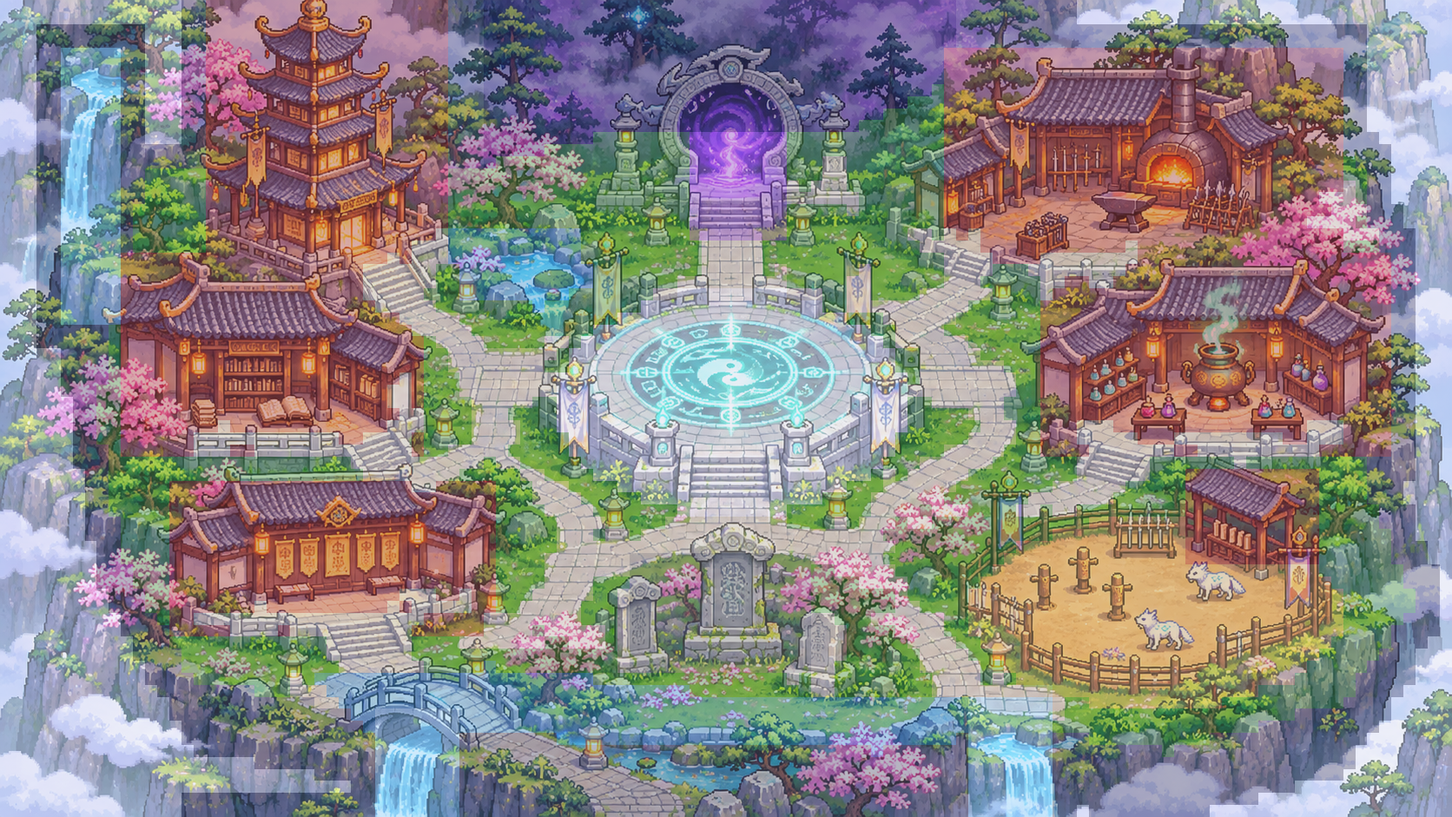
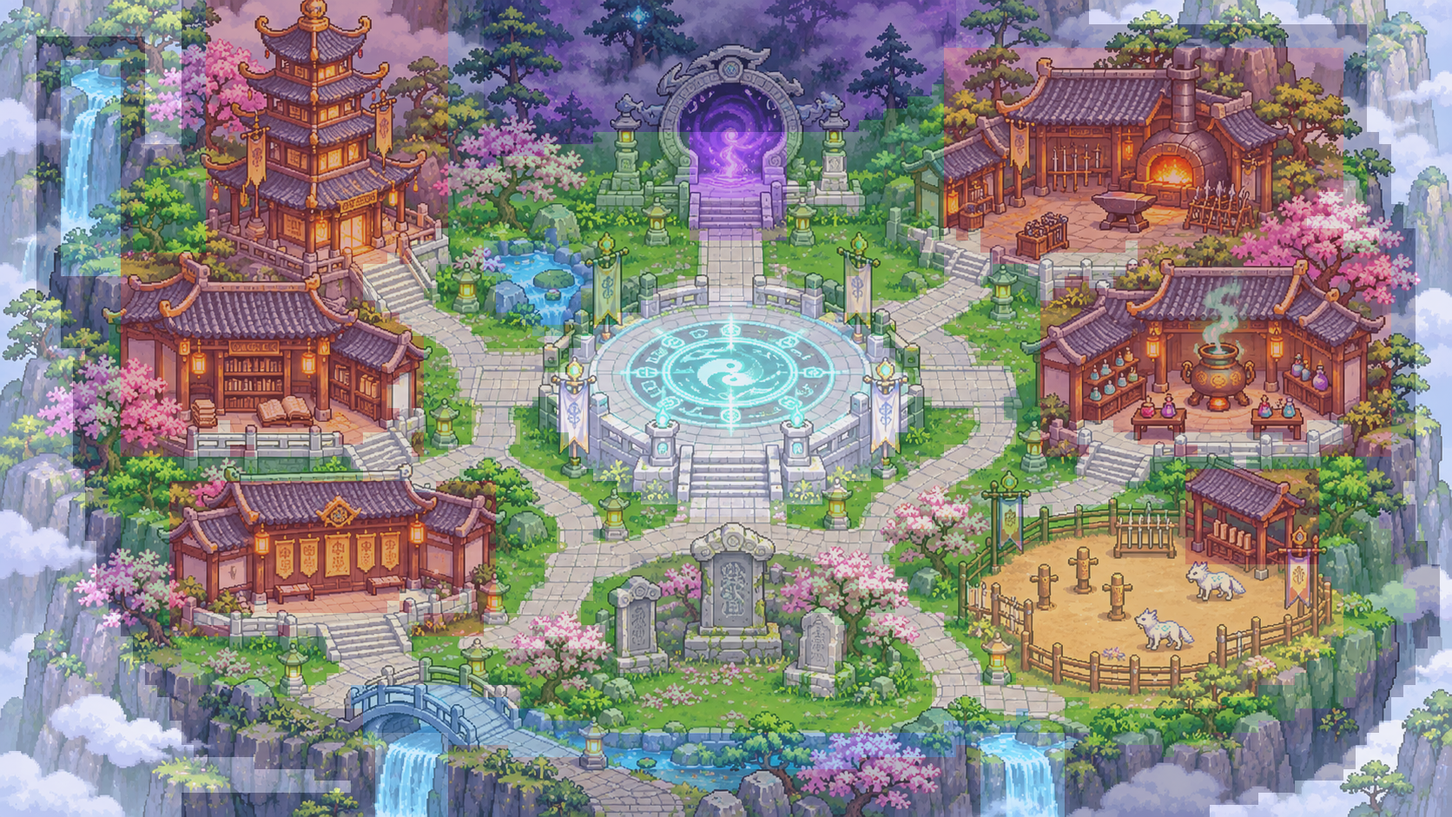
M8-15n: vach nui, suoi, thac theo concept bang tileset vach_nuoc (ChatGPT ve); nuoc/thac khoanh lai theo anh

diff --git a/src/data/sect_bocuc.js b/src/data/sect_bocuc.js
@@ -1,3 +1,3 @@
 // SINH TỰ ĐỘNG bởi tools/sect_bo_cuc.py — bố cục sảnh theo concept ảnh 1 (lưới ô). Đừng sửa tay.
 // . cỏ, = đường đá, ~ nước, d sân đất, ^ vách núi, T rừng, B chỗ công trình, P bệ, G cổng, X mây, b vườn bia, W thác
-export const BOCUC = {"nx": 120, "ny": 68, "rows": ["XXXXXXXXXXXXXXX^^BBBBBBBBBBBBBBBBBBBB^^^TTTTTTTTTTTTTTTTTTTTTTTTTTTTTTTTTTTTTTT^^^^^^^^^^XXXXXXXXXXXXXXXXXXXXXXXXXXXXXXX", "XXXXXXXXXXXXXXX^^BBBBBBBBBBBBBBBBBBBB^^^TTTTTTTTTTTTTTTTTTTTTTTTTTTTTTTTTTTTTTT^^^^^^^^^^XXXXXXXXXXXXXXXXXXXXXXXXXXXXXXX", "XXX^^^^^^^^^XXX^^BBBBBBBBBBBBBBBBBBBB^^^TTTTTTTTTTTTTTTTTTTTTTTTTTTTTTTTTTTTTTT^^^^^^^^^^^^^^^^^^^^^^^^^^^^^^^^^^XXXXXXX", "XXX^^^^^^^^^XXX^^BBBBBBBBBBBBBBBBBBBB^^^TTTTTTTTTTTTTTTTTTTTTTTTTTTTTTTTTTTTTTT^^^^^^^^^^^^^^^^^^^^^^^^^^^^^^^^^^XXXXXXX", "XXX^^WWWWW^^XXX^^BBBBBBBBBBBBBBBBBBBB^^^TTTTTTTTTTTTTTTTTTTTTTTTTTTTTTTTTTTTTTBBBBBBBBBBBBBBBBBBBBBBBBBBBBBBBBB^^XXXXXXX", "XXX^^WWWWW^^XXX^^BBBBBBBBBBBBBBBBBBBB^^^TTTTTTTTTTTTTTTTTTTTTTTTTTTTTTTTTTTTTTBBBBBBBBBBBBBBBBBBBBBBBBBBBBBBBBB^^XXXXXXX", "XXX^^WWWWW^^XXX^^BBBBBBBBBBBBBBBBBBBB^^^TTTTTTTTTTTTTTTTTTTTTTTTTTTTTTTTTTTTTTBBBBBBBBBBBBBBBBBBBBBBBBBBBBBBBBB^^XXXXXXX", "XXX^^WWWWW^^XXX^^BBBBBBBBBBBBBBBBBBBB^^^TTTTTTTTTTTTTTTTTTTTTTTTTTTTTTTTTTTTT.BBBBBBBBBBBBBBBBBBBBBBBBBBBBBBBBB^^XXXXXXX", "XXX^^WWWWW^^XXX^^BBBBBBBBBBBBBBBBBBBB^^^TTTTTTTTTTTTTTTTTTTTTTTTTTTTTTTTTTT...BBBBBBBBBBBBBBBBBBBBBBBBBBBBBBBBB^^XXXXXXX", "XXX^^WWWWW^^XXX^^BBBBBBBBBBBBBBBBBBBB^^^TTTTTTTTTTTTTTTTTTTTTTTTTTTTTTTTT.....BBBBBBBBBBBBBBBBBBBBBBBBBBBBBBBBB^^XXXXXXX", "XXX^^WWWWW^^XXX^^BBBBBBBBBBBBBBBBBBBB^^^TTTTTTTTTTTTTTTTTTTTTTTTTTTTTTT.......BBBBBBBBBBBBBBBBBBBBBBBBBBBBBBBBB^^XXXXXXX", "XXX^^WWWWW^^XXX^^BBBBBBBBBBBBBBBBBBBB^^^TTTTTTTTT........GGGGGGGG.............BBBBBBBBBBBBBBBBBBBBBBBBBBBBBBBBB^^^XXXXXX", "XXX^^WWWWW^^^^^^^BBBBBBBBBBBBBBBBBBBB^^^TTTTT............GGGGGGGG.............BBBBBBBBBBBBBBBBBBBBBBBBBBBBBBBBB^^^^XXXXX", "XXX^^WWWWW^^^^^^^BBBBBBBBBBBBBBBBBBBB^^^T................GGGGGGGG...==........BBBBBBBBBBBBBBBBBBBBBBBBBBBBBBBBB.^^^XXXXX", "XXX^^WWWWW^^.....BBBBBBBBBBBBBBBBBBBB....................GGGGGGGG...==........BBBBBBBBBBBBBBBBBBBBBBBBBBBBBBBBB..^^XXXXX", "XXX^^WWWWW^^.....BBBBBBBBBBBBBBBBBBBB....................GGGGGGGG=.===........BBBBBBBBBBBBBBBBBBBBBBBBBBBBBBBBB=.^^XXXXX", "XXX^^WWWWW^^.....BBBBBBBBBBBBBBBBBBBB....................GGGGGGGG======.......BBBBBBBBBBBBBBBBBBBBBBBBBBBBBBB===.^^XXXXX", "XXX^^WWWWW^......BBBBBBBBBBBBBBBBBBBB....................GGGGGGGG.....=.......BBBBBBBBBBBBBBBBBBBBBBBBBBBBBBBB===^^^XXXX", "XXX^^WWWWW^......BBBBBBBBBBBBBBBBBBBB....................GGGGGGGG.............BBBBBBBBBBBBBBBBBBBBBBBBBBBBBB====.^^^XXXX", "XXX^^WWWWW^......BBBBBBBBBBBBBBBBBBB=~~~~~~~~~~~.........GGGGGGGG..........==.=B=BBBBBBBBBBBBBBBBBBBBBBBBBBBBBB===^^^XXX", "XXX^^WWWWW^......BBBBBBBBBBBBBBBBB===~~~~~~~~~~~..........=====.............=====BBBBBBBBBBBB=BBBBBBBBBBBBBBBBB...^^^XXX", "XXX^^WWWWWBBBBBBBBBBBBBBBBBBBBBB=B===~~~~~~~~~~~..........=====...............====BBBB========BBBBBBBBBBBBBBBBBBBBB^^XXX", "XXX^^WWWWWBBBBBBBBBBBBBBBBBBBB======..~~~~~~~~~~~.........=====.=......=......====...========BBBBBBBBBBBBBBBBBBBBBB^^XXX", "XXX^^WWWWWBBBBBBBBBBBBBBBBBBBB======..~~~~~~~~~~~.......=========.....==......===.....==BB==BBBBBBBBBBBBBBBBBBBBBBB^^XXX", "XXX^^WWWWWBBBBBBBBBBBBBBBBBBBB=====...~~~~~~~~~.......==PPPPPPPPP===..==....======....=BBBBBBBBBBBBBBBBBBBBBBBBBBBB^^XXX", "XXX^^WWWWWBBBBBBBBBBBBBBBBBBBBB=====........~........PPPPPPPPPPPPPPP..==========......BBBBBBBBBBBBBBBBBBBBBBBBBBBBB^^XXX", "XXX^^WWWWWBBBBBBBBBBBBBBBBBBBBBBB=====.............PPPPPPPPPPPPPPPPPPP...======.......BBBBBBBBBBBBBBBBBBBBBBBBBBBBB^^XXX", "XXX^^^^^^.BBBBBBBBBBBBBBBBBBBBBBBB=====..........PPPPPPPPPPPPPPPPPPPPPPP..====........BBBBBBBBBBBBBBBBBBBBBBBBBBBBB^^XXX", "XXX^^^^^^.BBBBBBBBBBBBBBBBBBBBBBBBB.====.....==.PPPPPPPPPPPPPPPPPPPPPPPPP.======......BBBBBBBBBBBBBBBBBBBBBBBBBBBBB^^XXX", "XXXXX^^^^.BBBBBBBBBBBBBBBBBBBBBBBBB..=========.PPPPPPPPPPPPPPPPPPPPPPPPPPP..=====.....BBBBBBBBBBBBBBBBBBBBBBBBBBBBB^^XXX", "XXXXX^^^^.BBBBBBBBBBBBBBBBBBBBBBBBB..========..PPPPPPPPPPPPPPPPPPPPPPPPPPP..=======...BBBBBBBBBBBBBBBBBBBBBBBBBBBBB^^XXX", "XXXXX^^^^.BBBBBBBBBBBBBBBBBBBBBBB=B...========PPPPPPPPPPPPPPPPPPPPPPPPPPPPP.========..BBBBBBBBBBBBBBBBBBBBBBBBBBBBB^^XXX", "XXXXX^^^..BBBBBBBBBBBBBBBBBBBBBB==B...========PPPPPPPPPPPPPPPPPPPPPPPPPPPPP=========..BBBBBBBBBBBBBBBBBBBBBBBBBBBBB^^XXX", "XXXXXX^^..BBBBBBBBBBBBBBBBBBBBBB==B....=====..PPPPPPPPPPPPPPPPPPPPPPPPPPPPP..======...BBBBBBBBBBBBBBBBBBBBBBBBBBBBB^^XXX", "XXXXXX^^..BBBBBBBBBBBBBBBBBBBBBBB==....===....PPPPPPPPPPPPPPPPPPPPPPPPPPPPP.....===...BBBBBBBBBBBBBBBBBBBBBBBBBBBBB^^XXX", "XXXXXX^^..BBBBBBBB=BBBBBBBBBBBBB===....====...PPPPPPPPPPPPPPPPPPPPPPPPPPPPP......===..BBB===BBBBBBBBBBBBBBBB===BBBB^^XXX", "XXXXXX^^..BBBBBB============BB====B....====....PPPPPPPPPPPPPPPPPPPPPPPPPPP......====..BBB=====BBB=========BB===BBBB^^XXX", "XXXXXX^^^.BBBBBB===BB=============B..=====.....PPPPPPPPPPPPPPPPPPPPPPPPPPP....=====...BBBB=======BB==========BBBBBB^^XXX", "XXXXXX^^^....................===========.==.....PPPPPPPPPPPPPPPPPPPPPPPPP...======.......======.......=..........^^^^XXX", "XXXXXXX^^.....................========.....==....PPPPPPPPPPPPPPPPPPPPPPP.=.=====.........======...BBBBBBBBBBB....^^^^XXX", "XXXXXXX^^.....BBBBBBBBBBBBBBBBBBBB==BBBBB...===....PPPPPPPPPPPPPPPPPPP...======........======.....BBBBBBBBBBB....^^^XXXX", "XXXXXXX^^.....BBBBBBBBBBBBBBBBBBBBBBBBBBB...====.....PPPPPPPPPPPPPPP....======.......=======......BBBBBBBBBBB....^^^XXXX", "XXXXXXX^^.....BBBBBBBBBBBBBBBBBBBBBBBBBBB....====.......PPPPPPPPP.......====.===....==.==.........BBBBBBBBBBB.....^^^XXX", "XXXXXXX^^^....BBBBBBBBBBBBBBBBBBBBBBBBBBB.....====.....==========....=.===.==.............ddddddddBBBBBBBBBBB.....^^^XXX", "XXXXXXX^^^....BBBBBBBBBBBBBBBBBBBBBBBBBBB.....===.==.====================..............dddddddddddBBBBBBBBBBB......^^XXX", "XXXXXXXX^^....BBBBBBBBBBBBBBBBBBBBBBBBBBB.....============================..........ddddddddddddddBBBBBBBBBBB......^^^XX", "XXXXXXXX^^....BBBBBBBBBBBBBBBBBBBBBBBBBBB....=======bbbbbbbbbbbbbbb======..........dddddddddddddddBBBBBBBBBBB......^^^XX", "XXXXXXXX^^^...BBBBBBBBBBBBBBBBBBBBBBBBBBB....=======bbbbbbbbbbbbbbb..=====........ddddddddddddddddddddddddddd.......^^^X", "XXXXXXXX^^^...BBBBBBBBBBBBBBBBBBBBBBBBBBB....====...bbbbbbbbbbbbbbb....====......ddddddddddddddddddddddddddddd......^^^X", "XXXXXXXXX^^^..BBBBBBBBBBBBBBBBBBB===BB=BB...=====..=bbbbbbbbbbbbbbb.......=.....ddddddddddddddddddddddddddddddd......^^X", "XXXXXXXXX^^^..BBBBBBB=BBBBBBBBBB=B=====BB..=====...=bbbbbbbbbbbbbbb.......==....ddddddddddddddddddddddddddddddd......^^X", "XXXXXXXXXX^^^.BB===================BBBBB========...=bbbbbbbbbbbbbbb==...======..ddddddddddddddddddddddddddddddd.....^^^X", "XXXXXXXXXX^^^^BBBBB====B==========BBBBBB====.=====.=bbbbbbbbbbbbbbb===....====..ddddddddddddddddddddddddddddddd....^^^^X", "XXXXXXXXXXX^^^.............=======....=======..===.=bbbbbbbbbbbbbbb===.....====..ddddddddddddddddddddddddddddd.....^^^XX", "XXXXXXXXXXX^^^^............=======.................=bbbbbbbbbbbbbbb===......====..ddddddddddddddddddddddddddd.....^^^XXX", "XXXXXXXXXXXX^^^.............=======.....~..........=bbbbbbbbbbbbbbb==.......=====..ddddddddddddddddddddddddd.....^^^^XXX", "XXXXXXXXXXXX^^^^........=.~~~~~~~~~~~~~~~~~~~~~~~................=.==........====.=.ddddddddddddddddddddddd.....^^^^^XXX", "XXXXXXXXXXXXX^^^^^^^^...===~~~~~~~~~~~~~~~~~~~~~~~~~~~~~~..........==........==========ddddddddddddddddd........^^^^XXXX", "XXXXXXXXXXXXXX^^^^^^^^^^^^==~~~~~~~~~~~~~~~~~~~~~~~~~~~~~~~~~~~~~~~~~~~~~~~~~~~~WWWWWWW=..ddddddddddd..........^^^^XXXXX", "XXXXXXXXXXXXXX^^^^^^^^^^^^^^^~~WWWWWWW~~~~~~~~~~~~~~~~~~~~~~~~~~~~~~~~~~~~~~~~~~WWWWWWW=...................^^^^^^^^XXXXX", "XXXXXXXXXXXXXXX^^^^^^^^^^^^^^^~WWWWWWW~~~~~~~~~~~~~~~~~~~~~~~~~~~~~~~~~~~~~~~~~~WWWWWWW.................^^^^^^^^^^XXXXXX", "XXXXXXXXXXXXXXX^^^^^^^^^^^^^^^^WWWWWWW^^^^^^^^~~~~~~~~~~~~~~~~~~~~~~~~~~~~~~~~~^WWWWWWW^^^..........^^^^^^^^^^^^^XXXXXXX", "XXXXXXXXXXXXXXXX^^^^^^^^^^^^^^^WWWWWWW^^^^^^^^^^^^^^^^^^^^^^^^^^^^^^^^^^~^^^^^^^WWWWWWW^^^^^^^^^.^^^^^^^^^^^^^^^XXXXXXXX", "XXXXXXXXXXXXXXXXXXXXX^^^^^^^^^^WWWWWWW^^^^^^^^^^^^^^^^^^^^^^^^^^^^^^^^^^^^^^^^^^WWWWWWW^^^^^^^^^^^^^^^^^^^^^^^^^XXXXXXXX", "XXXXXXXXXXXXXXXXXXXXXXXXXX^^^^^WWWWWWW^^^^^^^^^^^^^^^^^^^^^^^^^^^^^^^^^^^^^^^^^^WWWWWWW^^^^^^^^^^^^^^^^^^^^^^^^XXXXXXXXX", "XXXXXXXXXXXXXXXXXXXXXXXXXXXXX^^WWWWWWW^^^^^^^^^^^^^^^^^^^^^^^^^^^^^^^^^^^^^^^^^^WWWWWWW^^^^^^^^^^^^^^^^^^^^XXXXXXXXXXXXX", "XXXXXXXXXXXXXXX^^^^^^^^^^^^^^^^WWWWWWW^^^^^^^^^^^^^^^^^^^^^^^^^^^^^^^^^^^^^^^^^^WWWWWWW^^^^^^^^^^^^^^^^^XXXXXXXXXXXXXXXX", "XXXXXXXXXXXXXXX^^^^^^^^^^^^^^^^WWWWWWW^^^^^^^^^^^^^^^^^^^^^^^^^^^^^^^^^^^^^^^^^^WWWWWWW^^X^^^^^^^^^^XXXXXXXXXXXXXXXXXXXX"], "buildings": {"truyen_thua": {"box": [17, 0, 36, 21], "foot": [35, 24], "name": "Truyền Thừa Các (tháp)"}, "tang_kinh": {"box": [10, 21, 34, 37], "foot": [34, 37], "name": "Tàng Kinh Các"}, "cong_duc": {"box": [14, 40, 40, 52], "foot": [32, 53], "name": "Công Đức Đường"}, "luyen_khi": {"box": [78, 4, 110, 21], "foot": [80, 22], "name": "Luyện Khí Phường"}, "dan_duoc": {"box": [86, 21, 114, 37], "foot": [88, 38], "name": "Đan Dược Phòng"}, "luyen_vo_choi": {"box": [98, 39, 108, 46], "foot": [98, 46], "name": "chòi Luyện Võ"}}, "plaza": {"c": [60.5, 33], "rx": 14, "ry": 9}, "gate": {"x": [57, 64], "y": [11, 19]}, "tf": {"c_old": [60.5, 33], "c": [60.5, 33], "sx": 1, "sy": 1}, "pen": {"x": 82, "y": 44, "w": 26, "h": 13, "gate": [83, 86], "door": [84.5, 43.2]}};
+export const BOCUC = {"nx": 120, "ny": 68, "rows": ["XXXXXXXXXXXXXXX^^BBBBBBBBBBBBBBBBBBBB^^^TTTTTTTTTTTTTTTTTTTTTTTTTTTTTTTTTTTTTTT^^^^^^^^^^^XXXXXXXXXXXXXXXXXXXXXXXXXXXXXX", "XXXXXXXXXXXXXXX^^BBBBBBBBBBBBBBBBBBBB^^^TTTTTTTTTTTTTTTTTTTTTTTTTTTTTTTTTTTTTTT^^^^^^^^^^^XXXXXXXXXXXXXXXXXXXXXXXXXXXXXX", "XXXXXXXXXXXXXXX^^BBBBBBBBBBBBBBBBBBBB^^^TTTTTTTTTTTTTTTTTTTTTTTTTTTTTTTTTTTTTTT^^^^^^^^^^^^^^^^^^^^^^^^^^^^^^^^^^XXXXXXX", "XXX^^^^^^^^^XXX^^BBBBBBBBBBBBBBBBBBBB^^^TTTTTTTTTTTTTTTTTTTTTTTTTTTTTTTTTTTTTTT^^^^^^^^^^^^^^^^^^^^^^^^^^^^^^^^^^XXXXXXX", "XXX^^^^^^^^^XXX^^BBBBBBBBBBBBBBBBBBBB^^^TTTTTTTTTTTTTTTTTTTTTTTTTTTTTTTTTTTTTTBBBBBBBBBBBBBBBBBBBBBBBBBBBBBBBBB^^XXXXXXX", "XXX^^WWWWW^^XXX^^BBBBBBBBBBBBBBBBBBBB^^^TTTTTTTTTTTTTTTTTTTTTTTTTTTTTTTTTTTTTTBBBBBBBBBBBBBBBBBBBBBBBBBBBBBBBBB^^XXXXXXX", "XXX^^WWWWW^^XXX^^BBBBBBBBBBBBBBBBBBBB^^^TTTTTTTTTTTTTTTTTTTTTTTTTTTTTTTTTTTTTTBBBBBBBBBBBBBBBBBBBBBBBBBBBBBBBBB^^XXXXXXX", "XXX^^WWWWW^^XXX^^BBBBBBBBBBBBBBBBBBBB^^^TTTTTTTTTTTTTTTTTTTTTTTTTTTTTTTTTTTTT.BBBBBBBBBBBBBBBBBBBBBBBBBBBBBBBBB^^XXXXXXX", "XXX^^WWWWW^^XXX^^BBBBBBBBBBBBBBBBBBBB^^^TTTTTTTTTTTTTTTTTTTTTTTTTTTTTTTTTTT...BBBBBBBBBBBBBBBBBBBBBBBBBBBBBBBBB^^XXXXXXX", "XXX^^WWWWW^^XXX^^BBBBBBBBBBBBBBBBBBBB^^^TTTTTTTTTTTTTTTTTTTTTTTTTTTTTTTTT.....BBBBBBBBBBBBBBBBBBBBBBBBBBBBBBBBB^^XXXXXXX", "XXX^^WWWWW^^XXX^^BBBBBBBBBBBBBBBBBBBB^^^TTTTTTTTTTTTTTTTTTTTTTTTTTTTTTT.......BBBBBBBBBBBBBBBBBBBBBBBBBBBBBBBBB^^XXXXXXX", "XXX^^WWWWW^^XXX^^BBBBBBBBBBBBBBBBBBBB^^^TTTTTTTTT........GGGGGGGG.............BBBBBBBBBBBBBBBBBBBBBBBBBBBBBBBBB^^^XXXXXX", "XXX^^WWWWW^^^^^^^BBBBBBBBBBBBBBBBBBBB^^^TTTTT............GGGGGGGG.............BBBBBBBBBBBBBBBBBBBBBBBBBBBBBBBBB^^^^XXXXX", "XXX^^WWWWW^^^^^^^BBBBBBBBBBBBBBBBBBBB^^^T................GGGGGGGG...==........BBBBBBBBBBBBBBBBBBBBBBBBBBBBBBBBB.^^^XXXXX", "XXX^^WWWWW^^.....BBBBBBBBBBBBBBBBBBBB....................GGGGGGGG...==........BBBBBBBBBBBBBBBBBBBBBBBBBBBBBBBBB..^^XXXXX", "XXX^^WWWWW^^.....BBBBBBBBBBBBBBBBBBBB....................GGGGGGGG=.===........BBBBBBBBBBBBBBBBBBBBBBBBBBBBBBBBB=.^^XXXXX", "XXX^^WWWWW^^.....BBBBBBBBBBBBBBBBBBBB....................GGGGGGGG======.......BBBBBBBBBBBBBBBBBBBBBBBBBBBBBBB===.^^XXXXX", "XXX^^WWWWW^......BBBBBBBBBBBBBBBBBBBB....................GGGGGGGG.....=.......BBBBBBBBBBBBBBBBBBBBBBBBBBBBBBBB===^^^XXXX", "XXX^^WWWWW^......BBBBBBBBBBBBBBBBBBBB....................GGGGGGGG.............BBBBBBBBBBBBBBBBBBBBBBBBBBBBBB====.^^^XXXX", "XXX^^WWWWW^......BBBBBBBBBBBBBBBBBBB=........~...........GGGGGGGG..........==.=B=BBBBBBBBBBBBBBBBBBBBBBBBBBBBBB===^^^XXX", "XXX^^WWWWW^......BBBBBBBBBBBBBBBBB===...~~~~~~~...........=====.............=====BBBBBBBBBBBB=BBBBBBBBBBBBBBBBB...^^^XXX", "XXX^^WWWWWBBBBBBBBBBBBBBBBBBBBBB=B===...~~~~~~~~..........=====...............====BBBB========BBBBBBBBBBBBBBBBBBBBB^^XXX", "XXX^^WWWWWBBBBBBBBBBBBBBBBBBBB======....~~~~~~~~~.........=====.=......=......====...========BBBBBBBBBBBBBBBBBBBBBB^^XXX", "XXX^^^^^^^BBBBBBBBBBBBBBBBBBBB======.....~~~~~~~~.......=========.....==......===.....==BB==BBBBBBBBBBBBBBBBBBBBBBB^^XXX", "XXX^^^^^^^BBBBBBBBBBBBBBBBBBBB=====......~~~~~~~......==PPPPPPPPP===..==....======....=BBBBBBBBBBBBBBBBBBBBBBBBBBBB^^XXX", "XXXXX^^^^^BBBBBBBBBBBBBBBBBBBBB=====.....~~~~~~~.....PPPPPPPPPPPPPPP..==========......BBBBBBBBBBBBBBBBBBBBBBBBBBBBB^^XXX", "XXXXX^^^^.BBBBBBBBBBBBBBBBBBBBBBB=====.....~~~~~...PPPPPPPPPPPPPPPPPPP...======.......BBBBBBBBBBBBBBBBBBBBBBBBBBBBB^^XXX", "XXXXX^^^^.BBBBBBBBBBBBBBBBBBBBBBBB=====.....~....PPPPPPPPPPPPPPPPPPPPPPP..====........BBBBBBBBBBBBBBBBBBBBBBBBBBBBB^^XXX", "XXXXX^^^^.BBBBBBBBBBBBBBBBBBBBBBBBB.====.....==.PPPPPPPPPPPPPPPPPPPPPPPPP.======......BBBBBBBBBBBBBBBBBBBBBBBBBBBBB^^XXX", "XXXXXXX^^.BBBBBBBBBBBBBBBBBBBBBBBBB..=========.PPPPPPPPPPPPPPPPPPPPPPPPPPP..=====.....BBBBBBBBBBBBBBBBBBBBBBBBBBBBB^^XXX", "XXXXXX^^^.BBBBBBBBBBBBBBBBBBBBBBBBB..========..PPPPPPPPPPPPPPPPPPPPPPPPPPP..=======...BBBBBBBBBBBBBBBBBBBBBBBBBBBBB^^XXX", "XXXXXX^^^.BBBBBBBBBBBBBBBBBBBBBBB=B...========PPPPPPPPPPPPPPPPPPPPPPPPPPPPP.========..BBBBBBBBBBBBBBBBBBBBBBBBBBBBB^^XXX", "XXXXXX^^..BBBBBBBBBBBBBBBBBBBBBB==B...========PPPPPPPPPPPPPPPPPPPPPPPPPPPPP=========..BBBBBBBBBBBBBBBBBBBBBBBBBBBBB^^XXX", "XXXXXX^^..BBBBBBBBBBBBBBBBBBBBBB==B....=====..PPPPPPPPPPPPPPPPPPPPPPPPPPPPP..======...BBBBBBBBBBBBBBBBBBBBBBBBBBBBB^^XXX", "XXXXXX^^..BBBBBBBBBBBBBBBBBBBBBBB==....===....PPPPPPPPPPPPPPPPPPPPPPPPPPPPP.....===...BBBBBBBBBBBBBBBBBBBBBBBBBBBBB^^XXX", "XXXXXX^^..BBBBBBBB=BBBBBBBBBBBBB===....====...PPPPPPPPPPPPPPPPPPPPPPPPPPPPP......===..BBB===BBBBBBBBBBBBBBBB===BBBB^^XXX", "XXXXXX^^..BBBBBB============BB====B....====....PPPPPPPPPPPPPPPPPPPPPPPPPPP......====..BBB=====BBB=========BB===BBBB^^XXX", "XXXXXX^^^.BBBBBB===BB=============B..=====.....PPPPPPPPPPPPPPPPPPPPPPPPPPP....=====...BBBB=======BB==========BBBBBB^^XXX", "XXXXXX^^^....................===========.==.....PPPPPPPPPPPPPPPPPPPPPPPPP...======.......======.......=..........^^^^XXX", "XXXXXXX^^.....................========.....==....PPPPPPPPPPPPPPPPPPPPPPP.=.=====.........======...BBBBBBBBBBB....^^^^XXX", "XXXXXXX^^.....BBBBBBBBBBBBBBBBBBBB==BBBBB...===....PPPPPPPPPPPPPPPPPPP...======........======.....BBBBBBBBBBB....^^^XXXX", "XXXXXXX^^.....BBBBBBBBBBBBBBBBBBBBBBBBBBB...====.....PPPPPPPPPPPPPPP....======.......=======......BBBBBBBBBBB....^^^XXXX", "XXXXXXX^^.....BBBBBBBBBBBBBBBBBBBBBBBBBBB....====.......PPPPPPPPP.......====.===....==.==.........BBBBBBBBBBB.....^^^XXX", "XXXXXXX^^^....BBBBBBBBBBBBBBBBBBBBBBBBBBB.....====.....==========....=.===.==.............ddddddddBBBBBBBBBBB.....^^^XXX", "XXXXXXX^^^....BBBBBBBBBBBBBBBBBBBBBBBBBBB.....===.==.====================..............dddddddddddBBBBBBBBBBB......^^XXX", "XXXXXXXX^^....BBBBBBBBBBBBBBBBBBBBBBBBBBB.....============================..........ddddddddddddddBBBBBBBBBBB......^^^XX", "XXXXXXXX^^....BBBBBBBBBBBBBBBBBBBBBBBBBBB....=======bbbbbbbbbbbbbbb======..........dddddddddddddddBBBBBBBBBBB......^^^XX", "XXXXXXXX^^^...BBBBBBBBBBBBBBBBBBBBBBBBBBB....=======bbbbbbbbbbbbbbb..=====........ddddddddddddddddddddddddddd.......^^^X", "XXXXXXXX^^^...BBBBBBBBBBBBBBBBBBBBBBBBBBB....====...bbbbbbbbbbbbbbb....====......ddddddddddddddddddddddddddddd......^^^X", "XXXXXXXXX^^^..BBBBBBBBBBBBBBBBBBB===BB=BB...=====..=bbbbbbbbbbbbbbb.......=.....ddddddddddddddddddddddddddddddd......^^X", "XXXXXXXXX^^^..BBBBBBB=BBBBBBBBBB=B=====BB..=====...=bbbbbbbbbbbbbbb.......==....ddddddddddddddddddddddddddddddd......^^X", "XXXXXXXXXX^^^.BB===================BBBBB========...=bbbbbbbbbbbbbbb==...======..ddddddddddddddddddddddddddddddd.....^^^X", "XXXXXXXXXX^^^^BBBBB====B==========BBBBBB====.=====.=bbbbbbbbbbbbbbb===....====..ddddddddddddddddddddddddddddddd....^^^^X", "XXXXXXXXXXX^^^.............=======....=======..===.=bbbbbbbbbbbbbbb===.....====..ddddddddddddddddddddddddddddd.....^^^XX", "XXXXXXXXXXX^^^^............=======.................=bbbbbbbbbbbbbbb===......====..ddddddddddddddddddddddddddd.....^^^XXX", "XXXXXXXXXXXX^^^.............=======................=bbbbbbbbbbbbbbb==.......=====..ddddddddddddddddddddddddd.....^^^^XXX", "XXXXXXXXXXXX^^^^........=..========..............................=.==........====.=.ddddddddddddddddddddddd.....^^^^^XXX", "XXXXXXXXXXXXX^^^^^^^^...=====~~~~~~~~~~.===........................==........==========ddddddddddddddddd........^^^^XXXX", "XXXXXXXXXXXXXX^^^^^^^^^^^^===~~~~~~~~~~~~~=..................................==..=======..ddddddddddd..........^^^^XXXXX", "XXXXXXXXXXXXXX^^^^^^^^^^^^^^^^~~~~~~~~~~~~~~~......................................=~===...................^^^^^^^^XXXXX", "XXXXXXXXXXXXXXX^^^^^^^^^^^^^^^~~~~~~~~~~~~~~~~~~~.............................~~~~~~~~..................^^^^^^^^^^XXXXXX", "XXXXXXXXXXXXXXX^^^^^^^^^^^^^^^~WWWWWW~~~~~~~~~~~~~~~~~~~~~~~~~~~~~~~~~~~~~~~~~~~~WWWWWWW^^..........^^^^^^^^^^^^^XXXXXXX", "XXXXXXXXXXXXXXXX^^^^^^^^^^^^^^^WWWWWW^^^^^~~~~~~~~~~~~~~~~~~~~~~~~~~~~~~~~~~~~~^^WWWWWWW^^^^^^^^.^^^^^^^^^^^^^^^XXXXXXXX", "XXXXXXXXXXXXXXXXXXXXX^^^^^^^^^^WWWWWW^^^^^^^^^^^^^~~~~~~~~~~~~~~~~~~~~~^^^^^^^^^^WWWWWWW^^^^^^^^^^^^^^^^^^^^^^^^XXXXXXXX", "XXXXXXXXXXXXXXXXXXXXXXXXXX^^^^^WWWWWW^^^^^^^^^^^^^^^^^^^^^^^^^^^^^^^^^^^^^^^^^^^^WWWWWWW^^^^^^^^^^^^^^^^^^^^^^^XXXXXXXXX", "XXXXXXXXXXXXXXXXXXXXXXXXXXXXX^^WWWWWW^^^^^^^^^^^^^^^^^^^^^^^^^^^^^^^^^^^^^^^^^^^^WWWWWWW^^^^^^^^^^^^^^^^^^^XXXXXXXXXXXXX", "XXXXXXXXXXXXXXX^^^^^^^^^^^^^^^^WWWWWW^^^^^^^^^^^^^^^^^^^^^^^^^^^^^^^^^^^^^^^^^^^^WWWWWWW^^^^^^^^^^^^^^^^XXXXXXXXXXXXXXXX", "XXXXXXXXXXXXXXX^^^^^^^^^^^^^^^^WWWWWW^^^^^^^^^^^^^^^^^^^^^^^^^^^^^^^^^^^^^^^^^^^^WWWWWWW^^^^^^^^^^^^XXXXXXXXXXXXXXXXXXXX"], "buildings": {"truyen_thua": {"box": [17, 0, 36, 21], "foot": [35, 24], "name": "Truyền Thừa Các (tháp)"}, "tang_kinh": {"box": [10, 21, 34, 37], "foot": [34, 37], "name": "Tàng Kinh Các"}, "cong_duc": {"box": [14, 40, 40, 52], "foot": [32, 53], "name": "Công Đức Đường"}, "luyen_khi": {"box": [78, 4, 110, 21], "foot": [80, 22], "name": "Luyện Khí Phường"}, "dan_duoc": {"box": [86, 21, 114, 37], "foot": [88, 38], "name": "Đan Dược Phòng"}, "luyen_vo_choi": {"box": [98, 39, 108, 46], "foot": [98, 46], "name": "chòi Luyện Võ"}}, "plaza": {"c": [60.5, 33], "rx": 14, "ry": 9}, "gate": {"x": [57, 64], "y": [11, 19]}, "tf": {"c_old": [60.5, 33], "c": [60.5, 33], "sx": 1, "sy": 1}, "pen": {"x": 82, "y": 44, "w": 26, "h": 13, "gate": [83, 86], "door": [84.5, 43.2]}};

diff --git a/src/render/render.js b/src/render/render.js
@@ -215,6 +215,29 @@ function paintCoDa(g, map, tx, ty, x, y) {
   else id = CODA_IDX[k] ?? 41;
   g.drawImage(CODA, (id & 7) * T, (id >> 3) * T, T, T, x, y, T, T);
 }
+// M8 (16/11): vách núi, suối, thác theo concept bằng tileset sprites/tm_vach_nuoc.png (ChatGPT vẽ). Hàng: 0 mặt vách, 1 mép trên vách
+// (cỏ rủ), 2 chân vách tan vào mây (0-3) / cạnh trái (4) / cạnh phải (7), 3 nước, 4 bờ suối (trên 0-1, dưới 2-3, trái 4, phải 5, sen 6-7),
+// 5 thác (đỉnh 0, thân 4 khung 1-4, chân bọt 5-6)
+let VN = null;
+export function setVachNuoc(img) { VN = img; }
+const vnTile = (g, id, x, y) => g.drawImage(VN, (id & 7) * T, (id >> 3) * T, T, T, x, y, T, T);
+function paintCliffVN(g, map, tx, ty, x, y) {
+  const up = map.tileAt(tx, ty - 1), h = hash(tx, ty, 81), v = Math.floor(hash(tx, ty, 82) * 8);
+  let id;
+  if (isWalkT(up) || up === WATER) id = 8 + v;                                   // mép trên: cỏ rủ xuống vách
+  else if (map.tileAt(tx, ty + 1) === CLOUD) id = 16 + (v & 3);                  // chân vách tan vào mây
+  else if (map.tileAt(tx - 1, ty) === CLOUD) id = 20;                            // cạnh trái
+  else if (map.tileAt(tx + 1, ty) === CLOUD) id = 23;                            // cạnh phải
+  else id = h < 0.12 ? 21 + (v & 1) : v;                                         // mặt vách
+  vnTile(g, id, x, y);
+}
+function paintWaterVN(g, map, tx, ty, x, y, phase) {
+  const land = (dx, dy) => isWalkT(map.tileAt(tx + dx, ty + dy)), v = Math.floor(hash(tx, ty, 83) * 2);
+  let id;
+  if (land(0, -1)) id = 32 + v; else if (land(0, 1)) id = 34 + v; else if (land(-1, 0)) id = 36; else if (land(1, 0)) id = 37;
+  else id = hash(tx, ty, 84) < 0.05 ? 38 + v : 24 + ((Math.floor(hash(tx, ty, 85) * 8) + phase) & 7);
+  vnTile(g, id, x, y);
+}
 function paintCliff(g, map, tx, ty, x, y) {   // mặt vách dọc: nhìn 3/4 thấy mặt đá dưới mép đảo; càng xuống càng tối
   let depth = 0; while (depth < 6 && map.tileAt(tx, ty - depth - 1) === CLIFF) depth++;
   const top = isWalkT(map.tileAt(tx, ty - 1)) || map.tileAt(tx, ty - 1) === WATER;
@@ -247,7 +270,9 @@ function buildChunk(map, cx, cy, phase, props) {
   const tx0 = cx * CH, ty0 = cy * CH;
   for (let ty = ty0; ty < ty0 + CH; ty++) for (let tx = tx0; tx < tx0 + CH; tx++) {
     const t = map.tileAt(tx, ty), x = tx * T, y = ty * T;
-    if (t === WATER) { g.drawImage(waterTiles[(phase + tx + ty) & 1], x, y); if (map.tileAt(tx, ty - 1) !== WATER) g.drawImage(waterBank, x, y); }
+    if (t === WATER && !(map.sect && VN)) { g.drawImage(waterTiles[(phase + tx + ty) & 1], x, y); if (map.tileAt(tx, ty - 1) !== WATER) g.drawImage(waterBank, x, y); }
+    else if (map.sect && VN && t === WATER) paintWaterVN(g, map, tx, ty, x, y, phase);
+    else if (map.sect && VN && (t === CLIFF || t === FALL)) paintCliffVN(g, map, tx, ty, x, y);
     else if (map.sect && CODA && (t === STONE || t === GRASS || t === BUILDING)) paintCoDa(g, map, tx, ty, x, y);
     else if (map.sect && t === STONE) paintPath(g, map, tx, ty, x, y);
     else if (map.sect && (t === CLIFF || t === FALL)) paintCliff(g, map, tx, ty, x, y);
@@ -917,6 +942,8 @@ export function render(ctx, g) {
       for (let ty = ty0; ty <= ty0 + Math.ceil(H / T); ty++) for (let tx = tx0; tx <= tx0 + Math.ceil(W / T); tx++) {
         if (map.tileAt(tx, ty) !== FALL) continue;
         const x = tx * T, y = ty * T, off = Math.floor(time * 40) % 8;
+        if (VN) { const top = map.tileAt(tx, ty - 1) !== FALL, bot = map.tileAt(tx, ty + 1) !== FALL;   // thác bằng tileset: đỉnh / thân 4 khung / chân bọt
+          vnTile(ctx, top ? 40 : bot ? 45 + (Math.floor(time * 6) & 1) : 41 + ((Math.floor(time * 10) + ty) & 3), x, y); continue; }
         ctx.fillStyle = '#5fb4e6'; ctx.fillRect(x, y, T, T);
         for (let i = 0; i < 4; i++) { const sx = x + i * 4 + Math.floor(hash(tx, i, 66) * 2); ctx.fillStyle = (i & 1) ? '#9bd8f5' : '#cdeffc';
           for (let k = -1; k < 3; k++) ctx.fillRect(sx, y + ((off + k * 8 + i * 3) & 15) - 2, 2, 5); }

diff --git a/src/main.js b/src/main.js
@@ -16,7 +16,7 @@ import { spawnHubMonster, updateMonsters, reapMonsters, damageMonster, moveEntit
 import { loadSave, writeSave, commitMigration, exportSave, importSave, defaultMeta, KEYS } from './persistence/save.js';
 import { loadFx, createFx } from '../lib/beanfx.js';
 import { loadPixelfx } from './render/pixelfx.js';
-import { makeVis, consumeEvents, updateVis, clearVis, render, setTextQueue, drawTextQueue, setCoDa, spawnFx, burst, floatText, addShake, addFlash, part, PART_CAP } from './render/render.js';
+import { makeVis, consumeEvents, updateVis, clearVis, render, setTextQueue, drawTextQueue, setCoDa, setVachNuoc, spawnFx, burst, floatText, addShake, addFlash, part, PART_CAP } from './render/render.js';
 import * as UI from './ui/ui.js';
 import { EVOLUTIONS } from './data/skills.js';
 import { computeRunReward, stageReward, claimReward, rewardText } from './progression/rewards.js';
@@ -115,7 +115,8 @@ if (vis.tm && vis.tm.tran) {
 // M8: bệ Tụ Linh Pháp Đài (sprite ×PLAZA.scale): ảnh nền vẽ dưới nhân vật + lớp "phía trước" (lan can, vách, cờ, đèn).
 // Lớp trước xếp theo CHÂN của từng dải đục liền theo cột (cờ = chân bệ cờ, lan can nam = chân vách) rồi gom theo nấc 8 px
 // -> nhân vật đứng sau cờ/lan can bị che đúng, đứng trước thì không (cắt dải ngang cũ sai với vật cao).
-if (vis.tm) try { setCoDa(await loadImg('sprites/tm_co_da.png')); } catch (e) { console.warn('[sprite] co_da', e); }   // M8: cỏ/đá theo concept
+if (vis.tm) try { setCoDa(await loadImg('sprites/tm_co_da.png')); } catch (e) { console.warn('[sprite] co_da', e); }
+if (vis.tm) try { setVachNuoc(await loadImg('sprites/tm_vach_nuoc.png')); } catch (e) { console.warn('[sprite] vach_nuoc', e); }   // M8: vách/suối/thác theo concept   // M8: cỏ/đá theo concept
 if (vis.tm) try {
   const { PLAZA } = await import('./data/sect_plaza.js');
   const ld = loadImg;

diff --git a/src/data/sect_layout.js b/src/data/sect_layout.js
@@ -45,7 +45,7 @@ export const SECT = {
     ['den_da', 46.5, 47, [1, 1]], ['den_da', 74.5, 44, [1, 1]], ['den_da', 79.5, 32, [1, 1]], ['den_da', 75.5, 24, [1, 1]],
     ['den_da', 35.5, 52, [1, 1]], ['den_da', 44.5, 55, [1, 1]], ['den_da', 55.5, 47, [1, 1]], ['den_da', 66.5, 47, [1, 1]],
     ['bia_nho', 54.5, 53.5, [2, 1]], ['bia_nho', 66, 54, [2, 1]],
-    ['cau_da', 37, 56.6],
+    ['cau_da', 34.5, 60.4],
     ['luyen_vo', 103.5, 47, [4, 2]], ['moc_nhan', 90.5, 49, [1, 1]], ['moc_nhan', 94.5, 49, [1, 1]], ['moc_nhan', 92.5, 52, [1, 1]],
     ['gia_binh_khi', 98, 46, [2, 1]], ['co_phuon', 84.5, 45, [1, 1]], ['co_phuon', 106.5, 55, [1, 1]],
     ['anh_dao_lon', 46, 16, [2, 1]], ['anh_dao_lon', 14, 34, [2, 1]], ['anh_dao_lon', 12, 50, [2, 1]], ['anh_dao_lon', 106, 24, [2, 1]],

diff --git a/tools/sect_bo_cuc.py b/tools/sect_bo_cuc.py
@@ -28,9 +28,10 @@ def tfbox(b): x0, y0 = tf(b[:2]); x1, y1 = tf(b[2:]); return (round(x0), round(y
 ISLAND = [(12, 14), (40, 13), (52, 10), (70, 10), (78, 6), (106, 6), (112, 14), (114, 30), (112, 40), (116, 50), (110, 58), (96, 62),
           (84, 60), (72, 62), (60, 62), (46, 60), (40, 58), (26, 58), (16, 56), (10, 46), (8, 34), (10, 22)]
 FOREST = [(40, 0), (78, 0), (78, 6), (70, 10), (52, 10), (40, 13)]          # rừng tím sau cổng (đặc, chỉ để nhìn)
-WATER = [
-    [(37, 19), (47, 19), (48, 23), (44, 25), (38, 24)],                       # ao + thác nhỏ cạnh tháp
-    [(26, 56), (40, 55), (56, 57), (66, 58), (80, 58), (84, 60), (72, 62), (46, 61), (30, 60)],   # suối nam (dưới cầu -> 2 thác)
+WATER = [   # khoanh theo ảnh concept (16/11)
+    [(40, 20), (45, 19.5), (48, 22), (47.5, 26.5), (44, 27.5), (41, 25)],     # ao + thác nhỏ cạnh tháp
+    [(29, 57.5), (38, 57.5), (44, 59.5), (52, 61), (62, 61.5), (70, 61), (78, 60), (84, 59.5), (87, 61), (78, 62.5), (70, 63),
+     (60, 63.5), (50, 63), (42, 62), (30, 61)],                               # suối nam: dưới cầu đá -> men mép nam -> thác phải
 ]
 # Luyện Võ Trường: rào chữ nhật, cổng rào cạnh bắc lệch trái (đầu đường đông nam) + sân đất elip
 PEN = dict(x=82, y=44, w=26, h=13, gate=[83, 86], door=[84.5, 43.2])
@@ -47,7 +48,7 @@ BUILDINGS = {
 }
 BIA = dict(box=(52, 46, 66, 55))
 BRIDGE = dict(box=(33, 54, 38, 60))
-FALLS = [(5, 4, 9, 26), (31, 59, 37, 68), (80, 58, 86, 68)]
+FALLS = [(5, 5, 9, 22), (31, 61, 36, 68), (81, 61, 87, 68)]   # thác trái (vách tây), thác dưới cầu, thác phải
 F = {k: v['foot'] for k, v in BUILDINGS.items()}
 PATHS = []   # đường dò từ ảnh (trace_paths)
 

diff --git a/TASKS_TU_TIEN_LO.md b/TASKS_TU_TIEN_LO.md
@@ -412,6 +412,7 @@ Thiết kế + backlog đầy đủ (ChatGPT, 13/11): **`docs/chatgpt_tong_mon_M
   - [x] i. (15/11) Phóng bố cục quanh bệ (bệ sprite to hơn bệ trong concept): toạ độ concept x1,45 / y1,55 quanh tâm bệ (khung 174×106, bản đồ 194×126); đường lát rộng 6 ô dựng lại từ 4 lối bậc của bệ (bắc -> cổng, tây/đông -> ngã ba -> công trình, nam -> bia, Công Đức + cầu, cổng rào); công trình lùi xa; test đi bộ tới nhà nới 12 -> 18 s. Ảnh `docs/playtest/M8_sanh_phong_toan_canh.png`
   - [x] j. (15/11) Thu chiều dọc (y x1,3, khung 174×88, bản đồ 194×108); đường đối xứng trái/phải qua trục bệ như concept (nửa phải = gương nửa trái, chân Luyện Khí/Đan Dược đối xứng Truyền Thừa/Tàng Kinh); rào Luyện Võ đặt lại dưới ngã ba nam (BOCUC.pen), đồ trong sân dời theo
   - [x] m. (16/11) Về ĐÚNG TỈ LỆ ẢNH concept (người phát triển chọn): khung 120×68 ô = lưới concept, bản đồ 140×88; đường đá DÒ TỪ ẢNH theo màu (xám nhạt ít bão hoà -> đóng/mở hình thái -> ô > 50 % đá, giữ mảng >= 12 ô trong đảo) nên đường cong, vòng quanh bệ, sân trước nhà như concept. Cỏ + đá phiến vẽ bằng tileset `sprites/tm_co_da.png` (= maps/tilesets/co_da.png, ChatGPT vẽ theo màu concept), đá ghép theo góc (đỉnh là đá khi >= 2/4 ô quanh là đá). Bỏ bản phóng/đối xứng (M8-15i, j). Test 209/209; thử thật: phím A đi trên đường mới. Ảnh `docs/playtest/M8_sanh_concept_co_da.png`. Còn: vách núi/thác/suối, cây-đèn-bia đúng chỗ, công trình lớn
+  - [x] n. (16/11) Vách núi, suối, thác theo concept: tileset `sprites/tm_vach_nuoc.png` (ChatGPT vẽ, gốc docs/concept/tileset_vach_nuoc_chatgpt.png): mặt vách, mép trên cỏ rủ, chân vách tan vào mây, cạnh trái/phải; nước + bờ suối trên/dưới/trái/phải + sen; thác đỉnh/thân 4 khung động/chân bọt. Ao cạnh tháp, suối dưới cầu men mép nam, 3 thác khoanh lại theo ảnh; cầu đá đặt trên suối. Test 209/209. Ảnh `docs/playtest/M8_sanh_vach_nuoc.png`, `M8_sanh_suoi_cau.png`. Còn: thân thác hơi lặp sọc dọc
   - [ ] e. Luyện Võ Trường: hàng rào/cổng rào liền, sân đất có viền
   - [ ] f. Cổng bí cảnh: bậc + sân trước cổng như concept ảnh 1
 - [ ] M8-07..11 kiểm từng khu, M8-12 HUD, M8-14 cảm ứng, M8-16 save/regression, M8-17..18 playtest: sau khi xong M8-15
